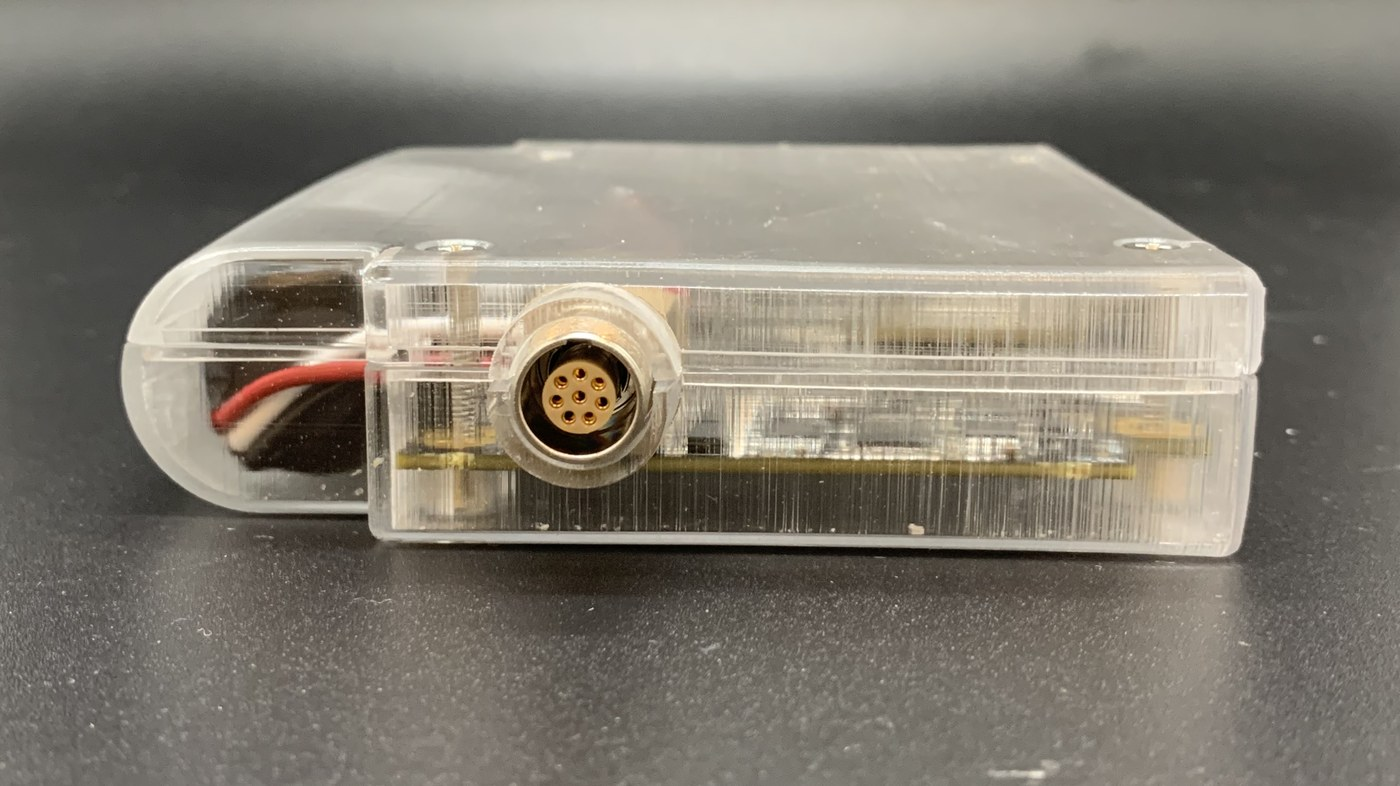
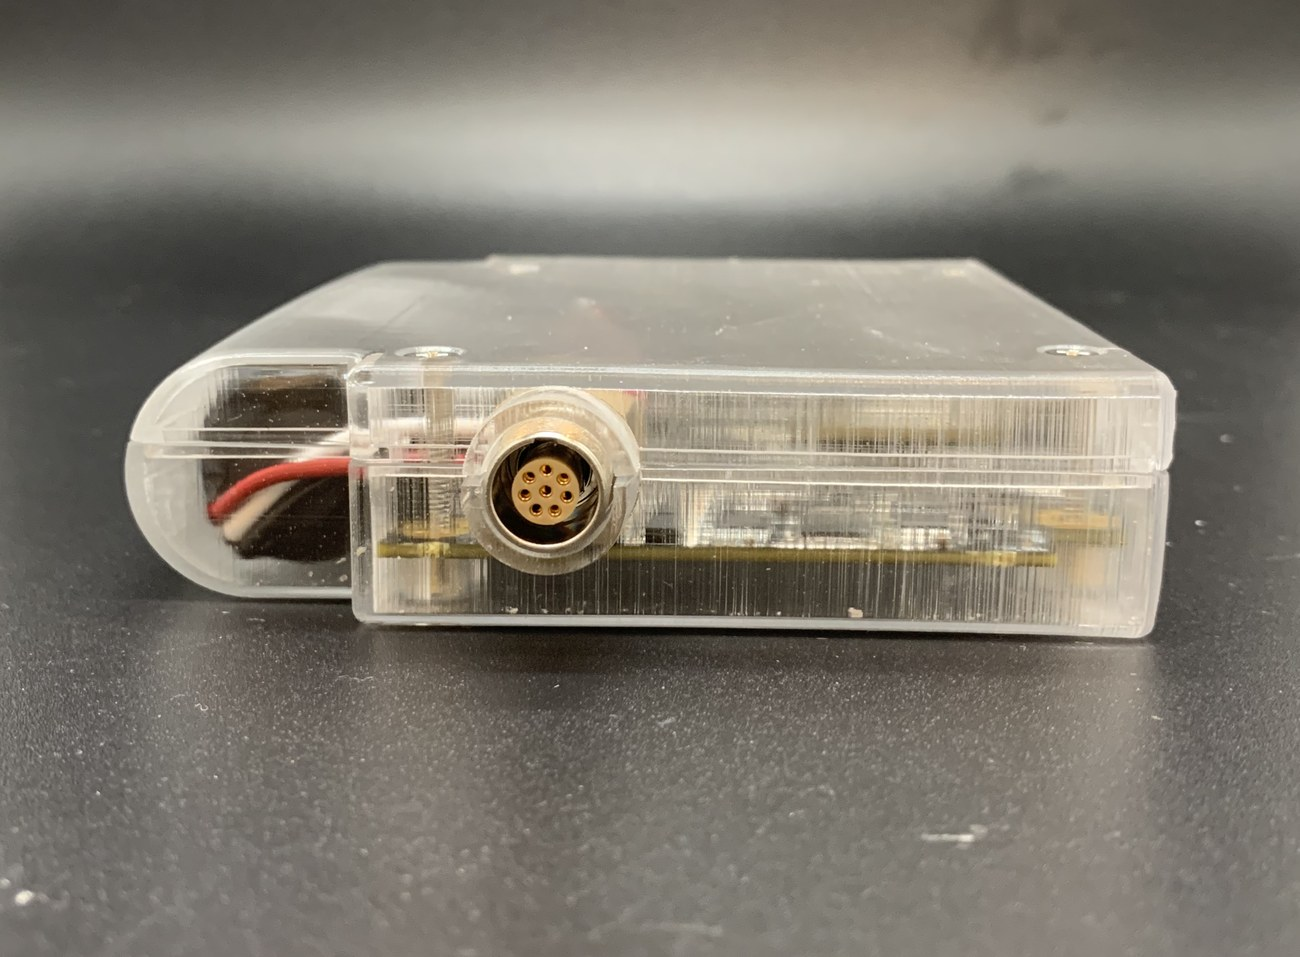
Add files via upload

diff --git a/portfolio.html b/portfolio.html
@@ -28,7 +28,6 @@
 <link href="https://fonts.googleapis.com/css2?family=Archivo:wght@500;600&family=Newsreader:ital,wght@0,400;0,500;1,400&family=JetBrains+Mono:wght@500&display=swap" rel="stylesheet">
 <link rel="stylesheet" href="style.css">
 </head>
-
 <body>
 
 <header class="topbar">
@@ -71,7 +70,7 @@
        ============================================================ -->
   <section class="band">
 
-    <article class="proj">
+    <article class="proj" style="--col: 400px">
       <div class="media">
         <img src="thermal-rig.jpg" alt="Custom high-pressure thermal testing apparatus with labeled pressure vessel, air compressor, digital multimeter, and PID controller">
       </div>
@@ -93,7 +92,7 @@
     </article>
 
     <article class="proj">
-      <div class="media side" style="--h: 420px">
+      <div class="media side" style="--h: 350px">
         <img src="mixing-syringe.jpg" alt="Dual-barrel syringe dispensing combined green fluid into a glass vial while the blue and yellow components stay separate in the barrel">
       </div>
       <div class="proj-body">
@@ -246,5 +245,4 @@ if (window.matchMedia('(prefers-reduced-motion: reduce)').matches) {
 }
 </script>
 </body>
-
 </html>
